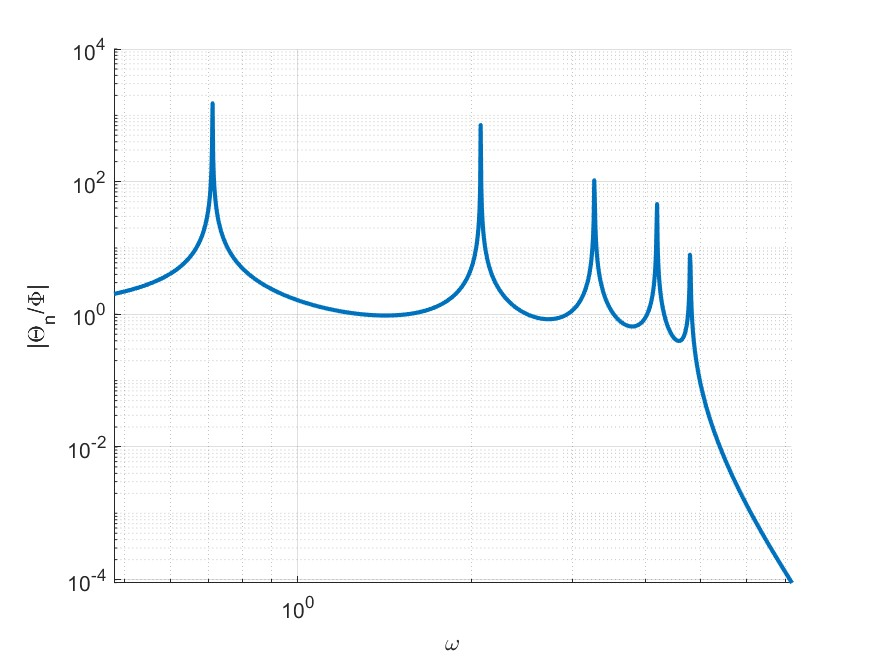
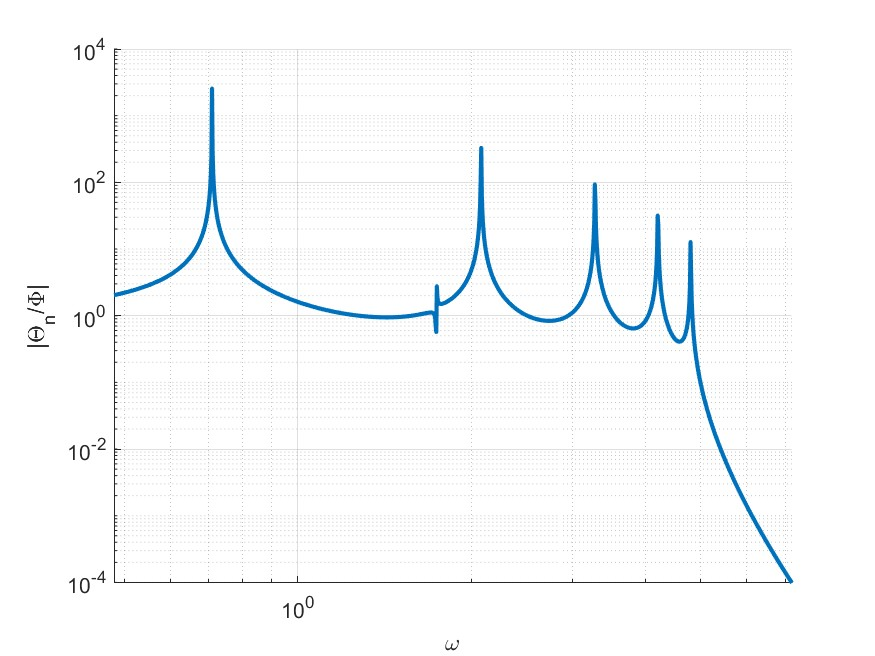
Finite Transimissibility Check

diff --git a/main.m b/main.m
@@ -131,11 +131,11 @@ F(1) = k * P_;
 % [ca1, ca2]
 f_ca = @(x) [x(1); x(2)];
 % Initial Value
-x_0 = [1, 1];
+x_0 = [0.5, 0.5];
 % Lower Bound
 x_lb = [0, 0];
 % Optimized Function
-x_f = @(x) f_T_max(n, w_e_max, M, f_C(n, m, na, f_ca(x)), K, F, P_);
+x_f = @(x) f_T_max(n, w, M, f_C(n, m, na, f_ca(x)), K, F, P_);
 % Optimization Options
 x_options = optimoptions('fminimax');
 x_options.MaxIterations = 2e3;
@@ -204,7 +204,7 @@ for na1 = 1:n - 1
         na_j(1) = na1;
         na_j(2) = na2;
         % Optimize
-        [Ia_j, ca_j, T_minimax_j, x_flag, x_output] = f_T_minimax(n, w_e_max, m, na_j, u, I, k);
+        [Ia_j, ca_j, T_minimax_j, x_flag, x_output] = f_T_minimax(n, w, m, na_j, u, I, k);
         if x_flag ~= 1 && isempty(first_wrong_flag)
             first_wrong_flag = x_flag;
             first_wrong_output = x_output;
@@ -304,7 +304,7 @@ function K = f_K(n, m, k)
     end
 end
 
-function [Ia, ca, T_minimax, x_flag, x_output] = f_T_minimax(n, w_e_max, m, na, u, I, k)
+function [Ia, ca, T_minimax, x_flag, x_output] = f_T_minimax(n, w, m, na, u, I, k)
     % Stiffness Matrix
     K = f_K(n, m, k);
     % Base Excitation (Divided by sin(wt))
@@ -317,11 +317,11 @@ function [Ia, ca, T_minimax, x_flag, x_output] = f_T_minimax(n, w_e_max, m, na, 
     f_Ia = @(x) [x(1); x(2)];
     f_ca = @(x) [x(3); x(4)];
     % Initial Value
-    x_0 = [u / 2, u / 2, 1, 1];
+    x_0 = [u / 2, u / 2, 0.5, 0.5];
     % Lower Bound
     x_lb = [0, 0, 0, 0];
     % Optimized Function
-    x_f = @(x) f_T_max(n, w_e_max, f_M(n, m, I, f_Ia(x)), f_C(n, m, na, f_ca(x)), K, F, P_);
+    x_f = @(x) f_T_max(n, w, f_M(n, m, I, f_Ia(x)), f_C(n, m, na, f_ca(x)), K, F, P_);
     % Linear Equality Constraint
     x_Aeq = [1, 1, 0, 0];
     x_beq = u;
@@ -339,28 +339,11 @@ function [Ia, ca, T_minimax, x_flag, x_output] = f_T_minimax(n, w_e_max, m, na, 
     T_minimax = x_maxfval;
 end
 
-function T_max_range = f_T_max(n, w_e_max, M, C, K, F, P_)
+function T_max_range = f_T_max(n, w, M, C, K, F, P_)
     % Different Local Maximum Transmissibilities
-    T_max_range = zeros(1, n);
-    % Step Size in Frequency
-    w_e_step = w_e_max / length(T_max_range);
-    % Frequency Range Start
-    w_e_start = 0;
-    for k = 1:length(T_max_range)
-        % Optimization Parameter Vector
-        % [w_e]
-        % Lower Bound
-        x_1 = w_e_start;
-        % Upper Bound
-        x_2 = w_e_start + w_e_step;
-        % Optimized Function
-        x_f = @(x) -f_T(n, x, M, C, K, F, P_);
-        % Optimization Results
-        [~, x_fval] = fminbnd(x_f, x_1, x_2);
-        % Maximum Transmissibility
-        T_max_range(k) = -x_fval;
-        % Next Range
-        w_e_start = w_e_start + w_e_step;
+    T_max_range = zeros(size(w));
+    for k = 1:length(w)
+        T_max_range(k) = f_T(n, w(k), M, C, K, F, P_);
     end
 end
 
